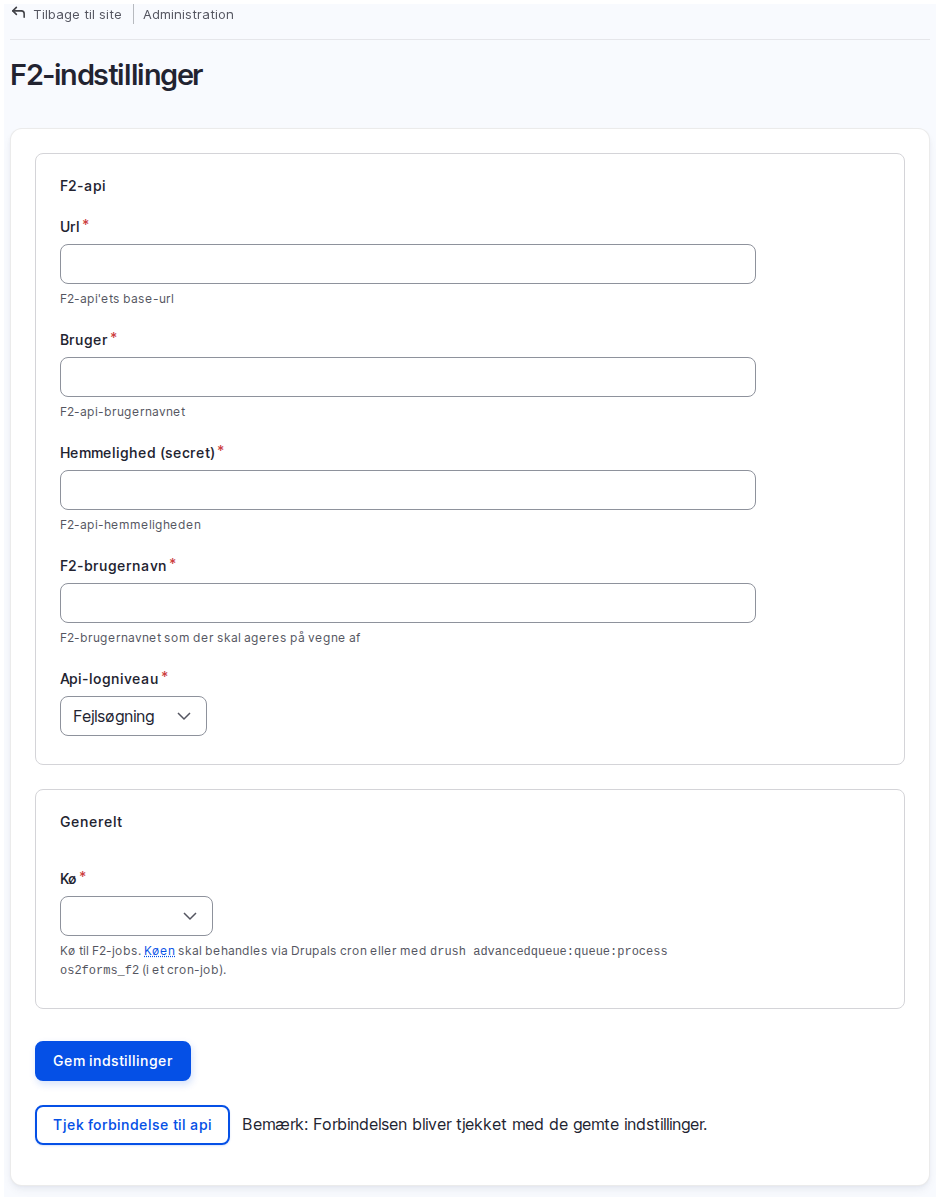
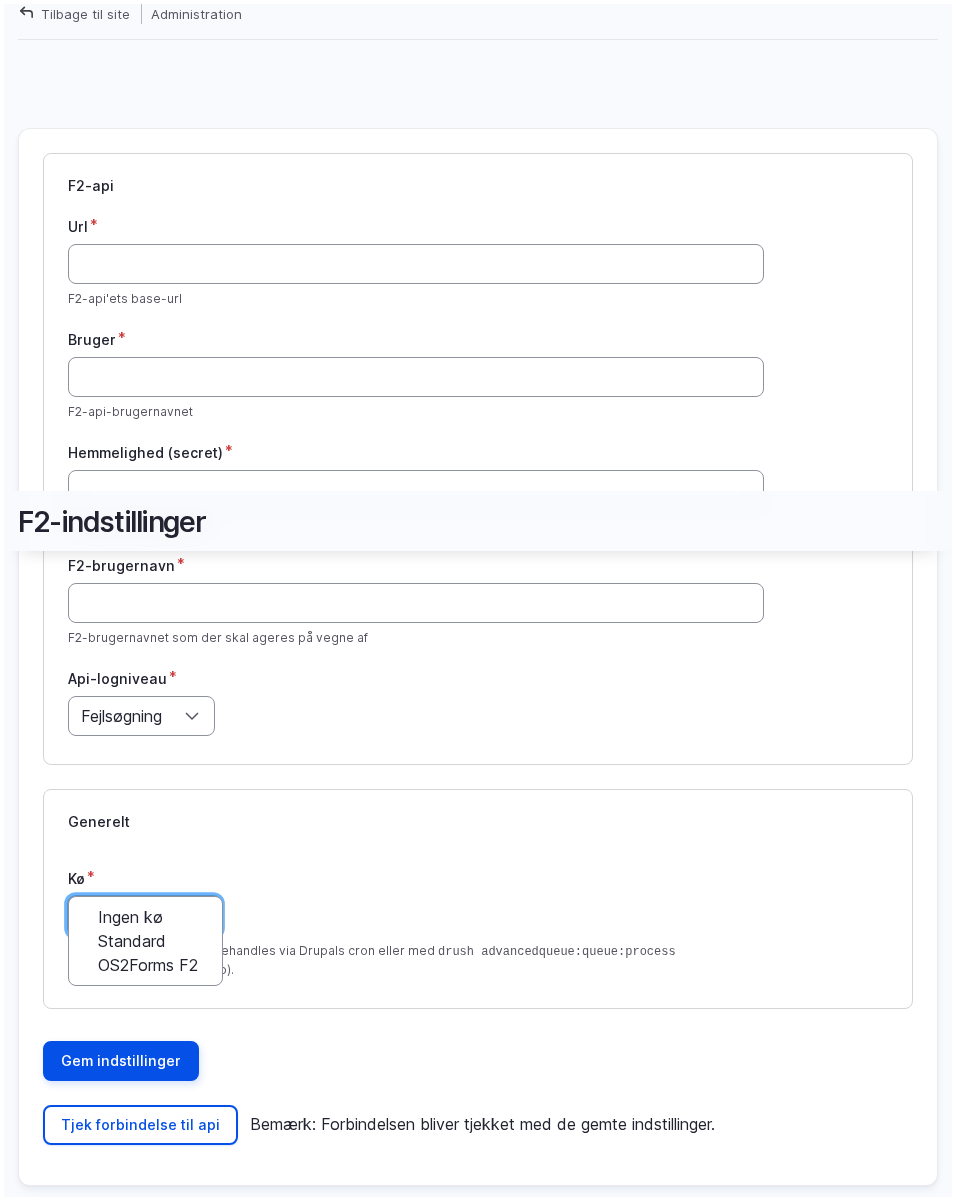
Added select options display hack

diff --git a/modules/os2forms_f2_test/js/script.js b/modules/os2forms_f2_test/js/script.js
@@ -1,0 +1,30 @@
+// https://tom-select.js.org/examples/
+addEventListener("load", () => {
+  const buildOptionsDisplay = (el) => {
+    let wrapper = el.os2forms_test_wrapper;
+    if (!wrapper) {
+      wrapper = document.createElement("div");
+      wrapper.classList.add("os2forms-test");
+      wrapper.classList.add("select-options-wrapper");
+      wrapper.style.top = el.offsetTop + "px";
+      wrapper.style.left = el.offsetLeft + "px";
+      wrapper.style.width = el.offsetWidth + "px";
+      wrapper.appendChild(document.createElement("ol"));
+      el.after(wrapper);
+      el.os2forms_test_wrapper = wrapper;
+
+      el.addEventListener("change", () => buildOptionsDisplay(event.target));
+    }
+
+    const list = wrapper.querySelector("ol");
+    list.replaceChildren();
+    [...el.options].forEach((option) => {
+      const item = document.createElement("li");
+      item.innerText = option.text;
+      item.classList.toggle("selected", option.selected);
+      list.appendChild(item);
+    });
+  };
+
+  document.querySelectorAll("select").forEach(buildOptionsDisplay);
+});

diff --git a/modules/os2forms_f2_test/css/styles.css b/modules/os2forms_f2_test/css/styles.css
@@ -1,0 +1,44 @@
+.os2forms-test.select-options-wrapper {
+  display: none;
+  cursor: default;
+
+  position: absolute;
+  z-index: 9999;
+  background: white;
+  border: solid 1px #ddd;
+  border-radius: 8px;
+
+  border: 1px solid var(--gin-border-color-form-element);
+  border-radius: var(--gin-border-m);
+
+  ol {
+    list-style: none;
+    margin: 0;
+    padding: 0;
+
+    padding-block: var(--input-padding-vertical);
+    padding-inline: var(--input-padding-vertical);
+
+    li {
+      padding-inline-start: calc(1ex + var(--input-padding-horizontal));
+      border-radius: 4px;
+      border-radius: var(--gin-border-s);
+      color: var(--gin-color-text);
+    }
+
+    li.selected::before {
+      content: "✓";
+      margin-left: -1em;
+      position: absolute;
+    }
+
+    li:hover {
+      background-color: var(--gin-color-primary);
+      color: var(--gin-color-button-text);
+    }
+  }
+}
+
+select:focus + .os2forms-test.select-options-wrapper {
+  display: initial;
+}

diff --git a/tests/Playwright/tests/user-manual-images.spec.ts b/tests/Playwright/tests/user-manual-images.spec.ts
@@ -76,6 +76,12 @@ screenshooting ${selector}
   await page.locator('[name="general[queue]"]').selectOption(null);
   await page.locator('[name="f2_api[uri]"]').focus();
   await page.locator('[name="f2_api[uri]"]').blur();
+
+  const element = page.locator('[name="general[queue]"]');
+  await element.focus();
+  // const boundingBox = await element.boundingBox();
+  // await page.mouse.move(boundingBox.x + boundingBox.width/2, boundingBox.y - boundingBox.height/2);
+
   await screenshot("f2-settings-empty", ".page-wrapper");
 
   await goto("admin/os2forms_f2/settings");

diff --git a/modules/os2forms_f2_test/src/Hook/PageHooks.php b/modules/os2forms_f2_test/src/Hook/PageHooks.php
@@ -1,0 +1,22 @@
+<?php
+
+declare(strict_types=1);
+
+namespace Drupal\os2forms_f2_test\Hook;
+
+use Drupal\Core\Hook\Attribute\Hook;
+
+/**
+ * Page hooks.
+ */
+class PageHooks {
+
+  /**
+ * Implements hook_page_attachments().
+ */
+  #[Hook('page_attachments')]
+  public function pageAttachments(array &$page): void {
+    $page['#attached']['library'][] = 'os2forms_f2_test/allselect';
+  }
+
+}
